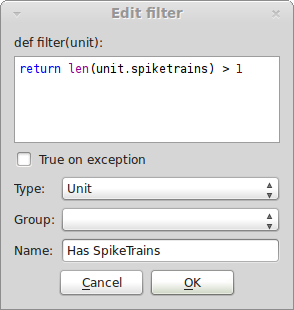
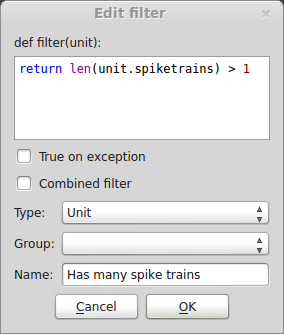
New features, Spectogram plugin and changelog in docs

diff --git a/doc/source/usage.rst b/doc/source/usage.rst
@@ -102,6 +102,23 @@ not currently loaded, they are opened automatically. When you exit Spyke
 Viewer, your current selection set is saved and will be restored on your
 next start.
 
+Exporting Data
+--------------
+If you want to export your data, Spyke Viewer offers two entries in the "File"
+menu: "Save selected data..." exports all data in your current selection.
+"Save all data..." exports all loaded data. When you click on one of
+the items, a dialog will open asking you where you want to save the data and
+in which format. HDF5 and Matlab are available. It is strongly recommended to
+save your data in HDF5, since the Neo IO for Matlab currently does not support
+the whole object model -- RecordingChannelGroups, RecordingChannels and Units
+are not saved.
+
+Matlab has an interface for loading HDF5 files as well, so if you want
+to load your data in Matlab without losing some of the structure, you can use
+HDF5. On the other hand, if you want to get your data into Matlab quickly or
+it is structured with segments only, the Matlab export could be the right
+choice.
+
 Filters
 -------
 
@@ -121,15 +138,30 @@ Viewer for the first time, the *Filter* dock will be empty. You can create
 a new filter by clicking on "New Filter" in the toolbar (right-clicking the
 *Filter* dock also brings up a menu with available actions). You can choose
 what kind of container objects the filter applies to, the name of the filter
-and its content: a Python function that returns ``True`` if an object should
-be displayed and ``False`` if not. The signature of the function is fixed, so
-you only have to write the body. The "True on exception" checkbox determines
-what happens when the filter function raises an exception: If it is checked,
-an exception will not cause an element to be filtered out, otherwise it will.
-The following picture shows how you would create a filter that hides all units
-that do not have at least two SpikeTrains attached:
+and its content: a simple Python function.
+
+There are two kinds of filters: single or combined. Single filters (created
+when the "Combined" checkbox is unchecked) get a single Neo object and return
+``True`` if the object should be displayed and ``False`` if not. Combined
+filters get a list of Neo objects and return a list containing only objects
+that should displayed. The order of the returned list is used for subsequent
+filters and displaying, so combined filters can also be used to sort the
+object lists.
+
+For both kinds of filters, the signature of the function is fixed and
+shown at the top of the window, so you only have to write the function body.
+The "True on exception" checkbox determines what happens when the filter
+function raises an exception: If it is checked, an exception will not cause
+an element to be filtered out, otherwise it will. The following picture shows
+how you would create a filter that hides all units that do not have at least
+two SpikeTrains attached:
 
 .. image:: /img/newfilter.png
+
+As another example, to reverse the order of Segments, you could create
+combined Segment filter with the following line::
+
+    return segments[::-1]
 
 You can also create filter groups. They can be used to organize your filters,
 but also have an important second function: You can define groups in which
@@ -137,8 +169,9 @@ only one filter can be active. If another filter in the group is activated,
 the previously active filter will be deactivated. You can choose which filters
 are active in the *Filter* dock. The *Navigation* dock will be updated
 each time the set of active filters changes. You can also drag and drop
-filters inside the *Filter* dock. All your filters and their activation are
-saved when you exit Spyke Viewer.
+filters inside the *Filter* dock. Their order in the *Filter* dock determines
+the order in which they are applied. All filters and their activation
+state are saved when you exit Spyke Viewer.
 
 .. _usingplugins:
 
@@ -204,6 +237,19 @@ trains for each segment, enter the following lines:
 Note that the variables used in these lines have now appeared in the
 *Variable Explorer* dock.
 
+.. Note::
+    There is now experimental support for IPython consoles: if you have
+    at least IPython 0.12 installed, there will be an item "New IPython
+    console" in the "File" menu. It will open an IPython Qt console window
+    connected to Spyke Viewer. The ``current`` and ``selections`` objects
+    are defined as in the integrated console, but no imports are predefined.
+    You can enter the "magic command"::
+
+        %pylab
+
+    to use the PyLab environment (you can safely ignore the warning message
+    about matplotlib backends). Multiple IPython consoles can be connected at
+    the same time.
 
 .. _settings:
 
@@ -223,7 +269,7 @@ selecting "Settings" (on OS X, open the "Spyke Viewer" menu and select
     The directory where your filter hierarchy and activation states are stored
     when you exit Spyke Viewer. Your filters are stored as regular Python
     files with some special annotation comments, so you can edit them in your
-    favourite editor.
+    favourite editor or share them with other users of Spyke Viewer.
 
 **Data path**
     This directory is important when you are using the data storage features

diff --git a/doc/source/plugins.rst b/doc/source/plugins.rst
@@ -30,10 +30,6 @@ Included signals
   including both will work well (you probably never need to change it if you
   do not know the difference between the signal objects).
 
-  Note that while only AnalogSignals for selected channels are be included in
-  the plot, all channels for AnalogSignalArrays are always included as these
-  objects are directly attached to RecordingChannelGroups.
-
 Show events
   When this is checked, events in the selected trial will be shown in the
   plot.
@@ -61,6 +57,29 @@ Show spikes
     each unit has a SpikeTrain and a single Spike. The waveform from the
     Spike object is used for every spike in the SpikeTrain. The data in the
     example file is structured in this way.
+
+Spectrogram
+-----------
+Shows spectrograms of the selected analog signals.
+
+.. image:: /img/plugin-spectrogram.png
+
+Interpolate
+  Determines whether the dipslayed spectrogram is interpolated.
+
+Show color bar
+  If this is checked, a colorbar will be shown with each plot, illustrating
+  the logarithmic power represented by the colors.
+
+FFT samples
+  The number of signal samples used in each FFT window.
+
+Included signals
+  This option can be used to tune which type of signals are shown:
+  AnalogSignal objects, AnalogSignalArray objects or both. In most cases, a
+  file will only include one of the signal types, so the default option of
+  including both will work well (you probably never need to change it if you
+  do not know the difference between the signal objects).
 
 Spike Waveform Plot
 -------------------

diff --git a/doc/source/installation.rst b/doc/source/installation.rst
@@ -42,8 +42,9 @@ their respective dependencies need to be installed:
 * spykeutils_
 * scipy_
 * guiqwt_
+* matplotlib_
 * tables_
-* spyder_
+* spyder_ >= 2.1.0
 * neo_ >= 0.2.1
 
 Please see the respective websites for instructions on how to install them if
@@ -51,21 +52,10 @@ they are not present on your computer. On a recent version of Debian/Ubuntu
 (e.g. Ubuntu 12.04 or newer), you can install all dependencies that are not
 automatically installed by ``pip`` or ``easy_install`` with::
 
-    $ sudo apt-get install python-guiqwt python-tables
+    $ sudo apt-get install python-guiqwt python-tables python-matplotlib
 
 On windows, you can use `Python(x,y)`_ if you do yet not have a Python
-distribution installed. It also includes all dependencies (except
-spykeutils).
-
-.. note::
-    If you have installed neo_ before, please make sure you have the most
-    recent version of the package, e.g. by running::
-
-    $ pip install -U neo
-
-    or::
-
-    $ easy_install -U neo
+distribution installed. It includes the same dependencies.
 
 spykeviewer
 ###########
@@ -104,3 +94,4 @@ $ spyke-viewer
 .. _`setuptools`: http://pypi.python.org/pypi/setuptools
 .. _`spyder`: http://packages.python.org/spyder/
 .. _`Python(x,y)`: http://www.pythonxy.com/
+.. _`matplotlib`: http://matplotlib.org/

diff --git a/doc/source/extending.rst b/doc/source/extending.rst
@@ -43,7 +43,7 @@ dock. Replace the string "New Plugin" by a name for your plugin, for example
 
 The ``start`` method gets called whenever you start a plugin. The two
 parameters are the same objects as the identically named objects that can be
-used in the console (see :ref:``console``): ``current`` gives access to the
+used in the console (see :ref:`console`): ``current`` gives access to the
 currently selected data, ``selections`` is a list containing the stored
 selections. Both ``current`` and the entries of ``selections`` are
 :class:`spykeutils.plugin.data_provider.DataProvider` objects, refer to the
@@ -81,12 +81,6 @@ using ``matplotlib`` for the plot, you first have to import it by adding::
     import numpy as np
 
 at the top of the plugin file.
-
-.. Note::
-    matplotlib is not part of the requirements for Spyke Viewer, so it might
-    not be installed on your machine. If you use a packaged version of Spyke
-    Viewer for Windows or OS X, matplotlib will be present. Otherwise, you
-    might need to install it (see http://matplotlib.org/users/installing.html).
 
 Next, replace the code in the ``start`` method by::
 

diff --git a/doc/source/index.rst b/doc/source/index.rst
@@ -24,6 +24,7 @@ Contents:
    usage
    plugins
    extending
+   CHANGELOG
    acknowledgements
 
 Indices and tables

diff --git a/doc/source/CHANGELOG.rst b/doc/source/CHANGELOG.rst
@@ -1,0 +1,1 @@
+.. include:: ../../CHANGELOG.rst
